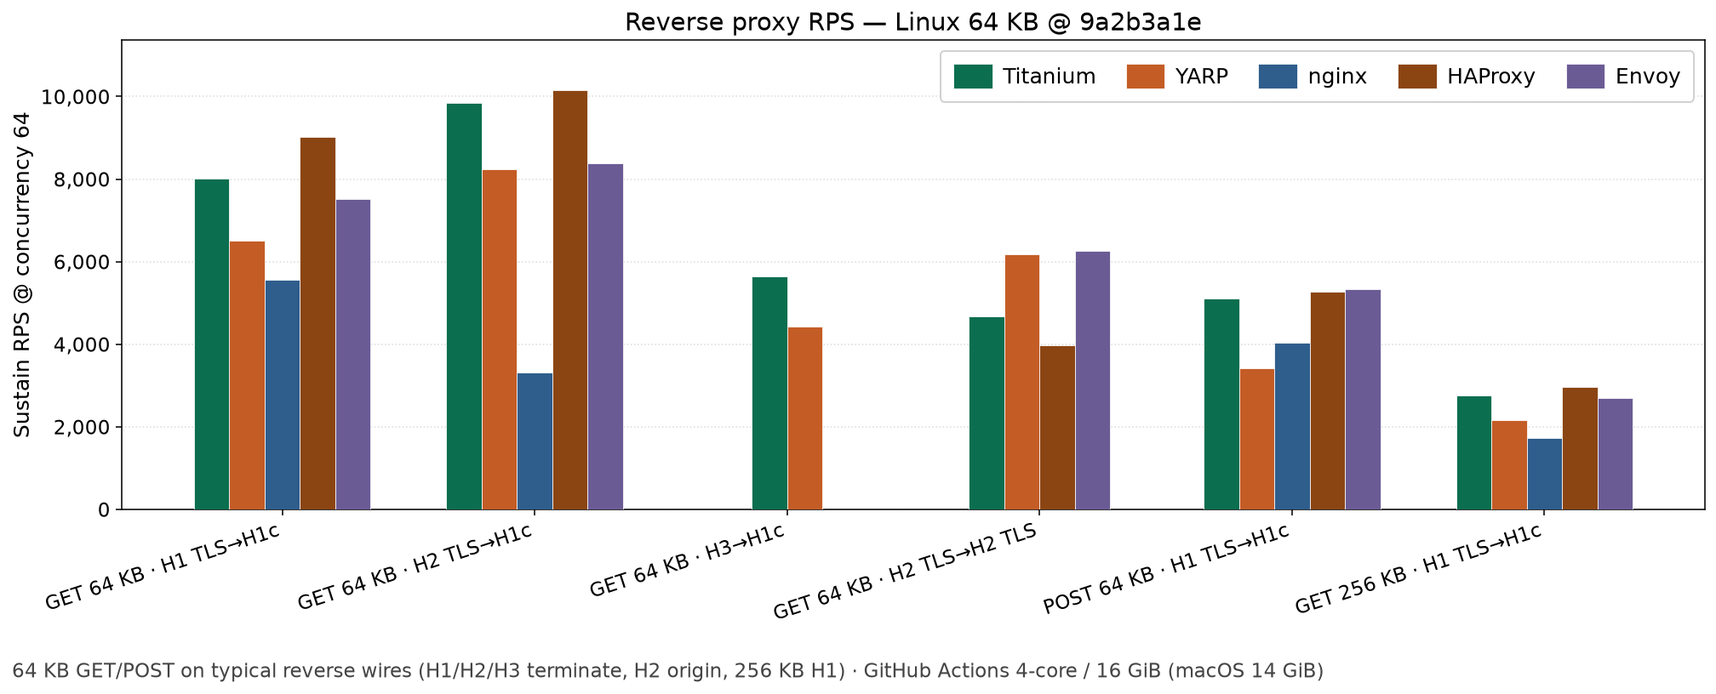
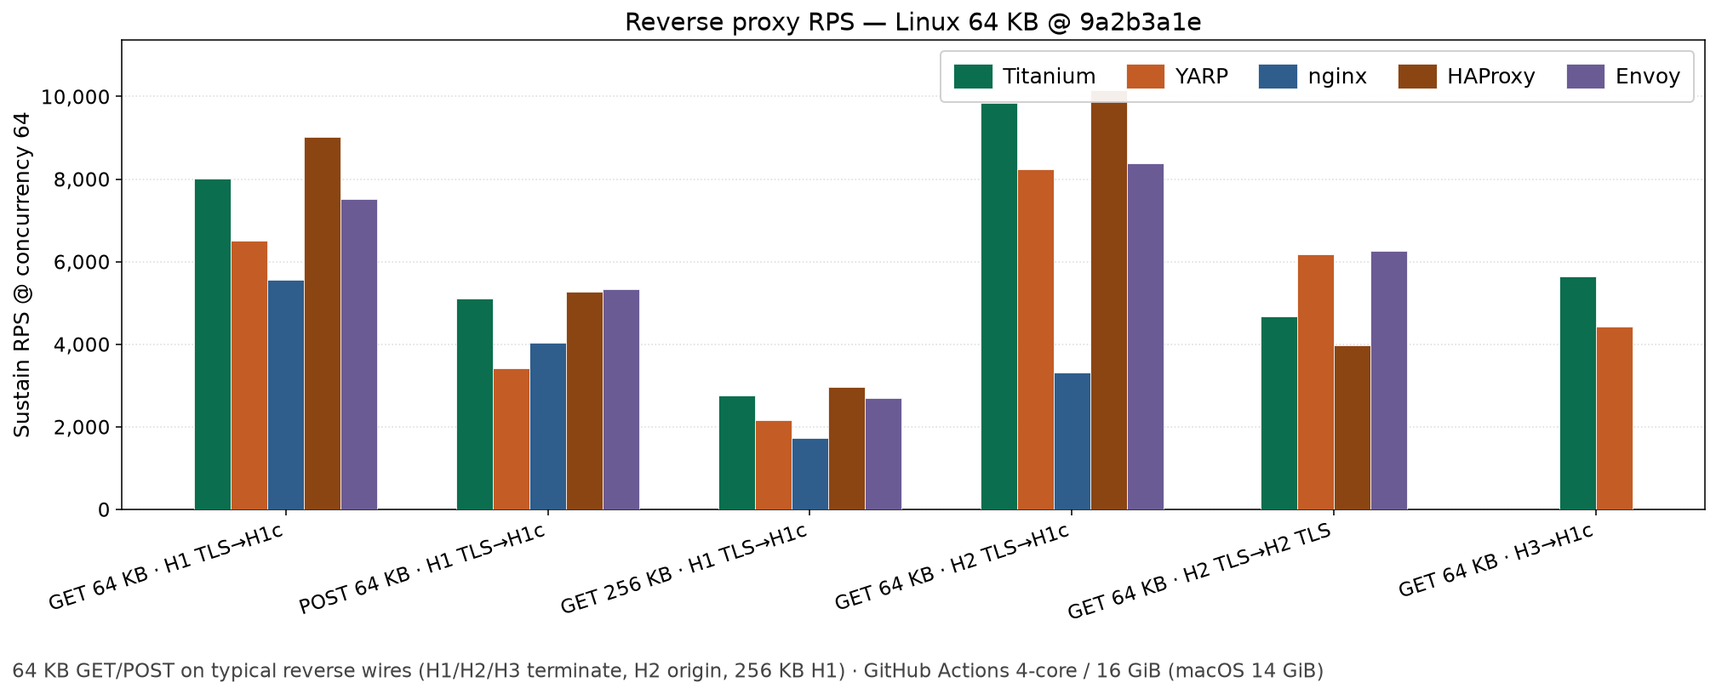
Mark HAProxy H3-origin impossible and close paste/chart gaps.
HAProxy 3.2 rejects QUIC backends; treat those cells as Not possible, harden
SupportsQuic against OPENSSL_COMPAT, paste Win nginx H3 and unary gRPC rows,
and reorder heavier practical charts H1→H2→H3.

diff --git a/tools/RpsLoadProbe/render-practical-charts.py b/tools/RpsLoadProbe/render-practical-charts.py
@@ -126,16 +126,17 @@ INDUSTRY_WORKLOADS: List[Tuple[str, Dict[str, Optional[str]]]] = [
     (
         "gRPC unary",
         {
-            "Titanium": "twp-reverse-http2-grpc-unary",
-            "YARP": "yarp-reverse-http2-grpc-unary",
-            "nginx": "nginx-reverse-http2-grpc-unary",
-            "HAProxy": "haproxy-reverse-http2-grpc-unary",
-            "Envoy": "envoy-reverse-http2-grpc-unary",
+            "Titanium": "twp-grpc-http2",
+            "YARP": "yarp-grpc-http2",
+            "nginx": "nginx-grpc-http2",
+            "HAProxy": "haproxy-grpc-http2",
+            "Envoy": "envoy-grpc-http2",
         },
     ),
 ]
 
 # Heavier practical chart: 64 KB GET/POST on typical reverse wires (+ 256 KB H1).
+# X-axis order: H1 family → H2 → H3 (client protocol).
 # label, twp, yarp, nginx, haproxy, envoy (None = product-impossible).
 PRACTICAL_HEAVIER_ARMS: List[Tuple[str, str, str, Optional[str], Optional[str], Optional[str]]] = [
     (
@@ -145,30 +146,6 @@ PRACTICAL_HEAVIER_ARMS: List[Tuple[str, str, str, Optional[str], Optional[str], 
         "nginx-reverse-http1-tls-body64k",
         "haproxy-reverse-http1-tls-body64k",
         "envoy-reverse-http1-tls-body64k",
-    ),
-    (
-        "GET 64 KB · H2 TLS→H1c",
-        "twp-reverse-http2-cleartext-body64k",
-        "yarp-reverse-http2-body64k",
-        "nginx-reverse-http2-body64k",
-        "haproxy-reverse-http2-body64k",
-        "envoy-reverse-http2-body64k",
-    ),
-    (
-        "GET 64 KB · H3→H1c",
-        "twp-reverse-http3-cleartext-body64k",
-        "yarp-reverse-http3-cleartext-body64k",
-        "nginx-reverse-http3-cleartext-body64k",
-        "haproxy-reverse-http3-cleartext-body64k",
-        "envoy-reverse-http3-cleartext-body64k",
-    ),
-    (
-        "GET 64 KB · H2 TLS→H2 TLS",
-        "twp-reverse-http2-to-https-body64k",
-        "yarp-reverse-http2-to-https-body64k",
-        None,
-        "haproxy-reverse-http2-to-https-body64k",
-        "envoy-reverse-http2-to-https-body64k",
     ),
     (
         "POST 64 KB · H1 TLS→H1c",
@@ -185,6 +162,30 @@ PRACTICAL_HEAVIER_ARMS: List[Tuple[str, str, str, Optional[str], Optional[str], 
         "nginx-reverse-http1-tls-body256k",
         "haproxy-reverse-http1-tls-body256k",
         "envoy-reverse-http1-tls-body256k",
+    ),
+    (
+        "GET 64 KB · H2 TLS→H1c",
+        "twp-reverse-http2-cleartext-body64k",
+        "yarp-reverse-http2-body64k",
+        "nginx-reverse-http2-body64k",
+        "haproxy-reverse-http2-body64k",
+        "envoy-reverse-http2-body64k",
+    ),
+    (
+        "GET 64 KB · H2 TLS→H2 TLS",
+        "twp-reverse-http2-to-https-body64k",
+        "yarp-reverse-http2-to-https-body64k",
+        None,
+        "haproxy-reverse-http2-to-https-body64k",
+        "envoy-reverse-http2-to-https-body64k",
+    ),
+    (
+        "GET 64 KB · H3→H1c",
+        "twp-reverse-http3-cleartext-body64k",
+        "yarp-reverse-http3-cleartext-body64k",
+        "nginx-reverse-http3-cleartext-body64k",
+        "haproxy-reverse-http3-cleartext-body64k",
+        "envoy-reverse-http3-cleartext-body64k",
     ),
 ]
 
@@ -222,11 +223,11 @@ WIKI_WIRE_CELLS: Dict[str, Tuple[str, str]] = {
 # Heavier chart wiki cells: (body_or_None_for_post, client, origin) → cluster index.
 WIKI_HEAVIER_CELLS: Dict[Tuple[Optional[str], str, str], int] = {
     ("64 KiB", "HTTP/1 · TLS", "HTTP/1 · plain"): 0,
-    ("64 KiB", "HTTP/2 · TLS", "HTTP/1 · plain"): 1,
-    ("64 KiB", "HTTP/3 · QUIC", "HTTP/1 · plain"): 2,
-    ("64 KiB", "HTTP/2 · TLS", "HTTP/2 · TLS"): 3,
-    (None, "HTTP/1 · TLS", "HTTP/1 · plain"): 4,  # POST table (no Body col)
-    ("256 KiB", "HTTP/1 · TLS", "HTTP/1 · plain"): 5,
+    (None, "HTTP/1 · TLS", "HTTP/1 · plain"): 1,  # POST table (no Body col)
+    ("256 KiB", "HTTP/1 · TLS", "HTTP/1 · plain"): 2,
+    ("64 KiB", "HTTP/2 · TLS", "HTTP/1 · plain"): 3,
+    ("64 KiB", "HTTP/2 · TLS", "HTTP/2 · TLS"): 4,
+    ("64 KiB", "HTTP/3 · QUIC", "HTTP/1 · plain"): 5,
 }
 
 HEADING_TO_OS = {
@@ -654,8 +655,8 @@ def arm_sustain_union(csv_paths: Sequence[Path], arm: Optional[str]) -> Optional
 
 
 def grpc_arm_union(csv_paths: Sequence[Path], prefix: str, fallback: Optional[str]) -> Optional[str]:
-    """Resolve a *-grpc-* arm; prefer <prefix>-reverse-http2-grpc-unary when present."""
-    preferred = fallback or f"{prefix}-reverse-http2-grpc-unary"
+    """Resolve a *-grpc-* arm; prefer <prefix>-grpc-http2 when present."""
+    preferred = fallback or f"{prefix}-grpc-http2"
     for path in csv_paths:
         arms = {r.get("arm") for r in csv.DictReader(path.open(newline="")) if r.get("arm")}
         if preferred in arms:

diff --git a/tools/RpsLoadProbe/RampOrchestrator.cs b/tools/RpsLoadProbe/RampOrchestrator.cs
@@ -948,8 +948,11 @@ internal static class RampOrchestrator
         bool haproxyQuicAvailable, bool envoyAvailable, bool envoyHttp3Available) =>
         wire.Product switch
         {
+            // HAProxy 3.2 USE_QUIC is frontend-only; QUIC backends are rejected at config check.
             PeerProduct.Nginx => nginxAvailable,
-            PeerProduct.Haproxy => haproxyAvailable && (!PeerWire.NeedsQuicBuild(wire) || haproxyQuicAvailable),
+            PeerProduct.Haproxy => haproxyAvailable
+                && wire.Origin != PeerOriginProto.H3
+                && (!PeerWire.NeedsQuicBuild(wire) || haproxyQuicAvailable),
             PeerProduct.Envoy => envoyAvailable && (!PeerWire.NeedsQuicBuild(wire) || envoyHttp3Available),
             _ => false
         };
@@ -1707,8 +1710,8 @@ internal static class RampOrchestrator
             haproxyAvailable, envoyAvailable, null,
             "haproxy-reverse-http1-plain-to-http2", "envoy-reverse-http1-plain-to-http2");
         InsertNativeRemainderAfterYarp(arms, ProbeMode.YarpReverseHttp1PlainToHttp3, nginxAvailable: false,
-            haproxyHttp3Available, envoyHttp3Available, null,
-            "haproxy-reverse-http1-plain-to-http3", "envoy-reverse-http1-plain-to-http3");
+            haproxyAvailable: false, envoyHttp3Available, null,
+            null, "envoy-reverse-http1-plain-to-http3");
         InsertNativeRemainderAfterYarp(arms, ProbeMode.YarpReverseHttp1ToH2c, nginxAvailable: false,
             haproxyAvailable, envoyAvailable, null,
             "haproxy-reverse-http1-to-h2c", "envoy-reverse-http1-to-h2c");
@@ -1716,8 +1719,8 @@ internal static class RampOrchestrator
             haproxyAvailable, envoyAvailable, null,
             "haproxy-reverse-http11-to-http2", "envoy-reverse-http11-to-http2");
         InsertNativeRemainderAfterYarp(arms, ProbeMode.YarpReverseHttp1ToHttp3, nginxAvailable: false,
-            haproxyHttp3Available, envoyHttp3Available, null,
-            "haproxy-reverse-http1-to-http3", "envoy-reverse-http1-to-http3");
+            haproxyAvailable: false, envoyHttp3Available, null,
+            null, "envoy-reverse-http1-to-http3");
         InsertNativeRemainderAfterYarp(arms, ProbeMode.YarpReverseH2cToH1, nginxAvailable,
             haproxyAvailable, envoyAvailable,
             "nginx-reverse-h2c-to-h1", "haproxy-reverse-h2c-to-h1", "envoy-reverse-h2c-to-h1");
@@ -1731,8 +1734,8 @@ internal static class RampOrchestrator
             haproxyAvailable, envoyAvailable, null,
             "haproxy-reverse-h2c", "envoy-reverse-h2c");
         InsertNativeRemainderAfterYarp(arms, ProbeMode.YarpReverseH2cToH3, nginxAvailable: false,
-            haproxyHttp3Available, envoyHttp3Available, null,
-            "haproxy-reverse-h2c-to-h3", "envoy-reverse-h2c-to-h3");
+            haproxyAvailable: false, envoyHttp3Available, null,
+            null, "envoy-reverse-h2c-to-h3");
         InsertNativeRemainderAfterYarp(arms, ProbeMode.YarpReverseHttp2ToH2c, nginxAvailable: false,
             haproxyAvailable, envoyAvailable, null,
             "haproxy-reverse-http2-to-h2c", "envoy-reverse-http2-to-h2c");
@@ -1740,17 +1743,18 @@ internal static class RampOrchestrator
             haproxyAvailable, envoyAvailable, null,
             "haproxy-reverse-http2-to-https", "envoy-reverse-http2-to-https");
         InsertNativeRemainderAfterYarp(arms, ProbeMode.YarpReverseHttp2ToHttp3, nginxAvailable: false,
-            haproxyHttp3Available, envoyHttp3Available, null,
-            "haproxy-reverse-http2-to-http3", "envoy-reverse-http2-to-http3");
+            haproxyAvailable: false, envoyHttp3Available, null,
+            null, "envoy-reverse-http2-to-http3");
         InsertNativeRemainderAfterYarp(arms, ProbeMode.YarpReverseHttp3ToH2c, nginxAvailable: false,
             haproxyHttp3Available, envoyHttp3Available, null,
             "haproxy-reverse-http3-to-h2c", "envoy-reverse-http3-to-h2c");
         InsertNativeRemainderAfterYarp(arms, ProbeMode.YarpReverseHttp3ToHttp2, nginxAvailable: false,
             haproxyHttp3Available, envoyHttp3Available, null,
             "haproxy-reverse-http3-to-http2", "envoy-reverse-http3-to-http2");
+        // HAProxy has no QUIC backend — H3↔H3 is Envoy-only among terminate peers.
         InsertNativeRemainderAfterYarp(arms, ProbeMode.YarpReverseHttp3ToHttp3, nginxAvailable: false,
-            haproxyHttp3Available, envoyHttp3Available, null,
-            "haproxy-reverse-http3-to-http3", "envoy-reverse-http3-to-http3");
+            haproxyAvailable: false, envoyHttp3Available, null,
+            null, "envoy-reverse-http3-to-http3");
 
         return arms;
     }

diff --git a/tools/RpsLoadProbe/product-arm-matrix.py b/tools/RpsLoadProbe/product-arm-matrix.py
@@ -43,21 +43,16 @@ IMPLEMENTED_REMAINDER: Dict[Tuple[str, str, str], str] = {
     # HAProxy / Envoy: every cell that is not one of the eight terminate-to-H1 arms.
     ("haproxy", H1C, H2C): "haproxy-reverse-http1-plain-to-h2c",
     ("haproxy", H1C, H2T): "haproxy-reverse-http1-plain-to-http2",
-    ("haproxy", H1C, H3): "haproxy-reverse-http1-plain-to-http3",
     ("haproxy", H1T, H2C): "haproxy-reverse-http1-to-h2c",
     ("haproxy", H1T, H2T): "haproxy-reverse-http11-to-http2",
-    ("haproxy", H1T, H3): "haproxy-reverse-http1-to-http3",
     ("haproxy", H2C, H1C): "haproxy-reverse-h2c-to-h1",
     ("haproxy", H2C, H1T): "haproxy-reverse-h2c-to-https",
     ("haproxy", H2C, H2C): "haproxy-reverse-h2c-to-h2c",
     ("haproxy", H2C, H2T): "haproxy-reverse-h2c",
-    ("haproxy", H2C, H3): "haproxy-reverse-h2c-to-h3",
     ("haproxy", H2T, H2C): "haproxy-reverse-http2-to-h2c",
     ("haproxy", H2T, H2T): "haproxy-reverse-http2-to-https",
-    ("haproxy", H2T, H3): "haproxy-reverse-http2-to-http3",
     ("haproxy", H3, H2C): "haproxy-reverse-http3-to-h2c",
     ("haproxy", H3, H2T): "haproxy-reverse-http3-to-http2",
-    ("haproxy", H3, H3): "haproxy-reverse-http3-to-http3",
     ("envoy", H1C, H2C): "envoy-reverse-http1-plain-to-h2c",
     ("envoy", H1C, H2T): "envoy-reverse-http1-plain-to-http2",
     ("envoy", H1C, H3): "envoy-reverse-http1-plain-to-http3",
@@ -97,7 +92,7 @@ ABSENT_HOW: Dict[Tuple[str, str], str] = {
     ("nginx", H2C): "mainline 1.25.1+ `http2 on` without ssl (prior-knowledge h2c) → existing H1 origin",
     ("haproxy", H2C): "`bind ... proto h2` (h2c) or existing QUIC/TLS frontend",
     ("haproxy", H2T): "`server ... ssl verify none alpn h2 proto h2`",
-    ("haproxy", H3): "`server ... quic4@127.0.0.1:<port> ssl verify none alpn h3` (3.2 USE_QUIC)",
+    ("haproxy", H3): "`server ... quic4@` is rejected on 3.2 — no QUIC backend (frontend USE_QUIC only)",
     ("envoy", H2C): "TCP listener codec HTTP2, no TLS; cluster `http2_protocol_options` without TLS",
     ("envoy", H2T): "cluster `explicit_http_config.http2_protocol_options` + UpstreamTlsContext",
     ("envoy", H3): "cluster QuicUpstreamTransport + `http3_protocol_options` (upstream H3 is alpha)",
@@ -138,9 +133,11 @@ def arm_name(product: str, client: str, origin: str) -> Optional[str]:
 def impossible_reason(product: str, client: str, origin: str) -> Optional[str]:
     if status(product, client, origin) != "impossible":
         return None
+    kind = _origin_kind(origin)
+    if product == "haproxy" and kind == "h3":
+        return IMPOSSIBLE_REASON["h3-up"]
     if product != "nginx":
         return "Not possible"
-    kind = _origin_kind(origin)
     if kind == "h3":
         return IMPOSSIBLE_REASON["h3-up"]
     if kind == "h2":

diff --git a/tools/RpsLoadProbe/HaproxyHost.cs b/tools/RpsLoadProbe/HaproxyHost.cs
@@ -144,6 +144,9 @@ internal sealed class HaproxyHost : IDisposable
             return null;
         if ((inbound == PeerInboundProto.H3 || origin == PeerOriginProto.H3) && !SupportsQuic(exe))
             return null;
+        // HAProxy 3.2: QUIC is frontend-only — backend quic4@ is rejected at config check.
+        if (origin == PeerOriginProto.H3)
+            return null;
 
         var needsCerts = inbound is PeerInboundProto.H1Tls or PeerInboundProto.H2Tls or PeerInboundProto.H3;
         var listenScheme = inbound is PeerInboundProto.H1c or PeerInboundProto.H2c ? "http" : "https";
@@ -512,11 +515,20 @@ backend be
     private static readonly Regex QuicConfigureFlag =
         new(@"\bUSE_QUIC\b", RegexOptions.Compiled | RegexOptions.CultureInvariant);
 
-    /// <summary>True when <c>haproxy -vv</c> lists <c>USE_QUIC</c> as a configure flag.</summary>
+    private static readonly Regex QuicOpensslCompatFlag =
+        new(@"\bUSE_QUIC_OPENSSL_COMPAT\b", RegexOptions.Compiled | RegexOptions.CultureInvariant);
+
+    /// <summary>
+    /// True when <c>haproxy -vv</c> lists a real QUIC stack (<c>USE_QUIC</c> without
+    /// <c>USE_QUIC_OPENSSL_COMPAT</c>). Compat builds reject <c>bind quic4@</c> unless
+    /// limited-quic is enabled; GHA installs QuicTLS instead.
+    /// </summary>
     internal static bool SupportsQuic(string exe)
     {
         var text = ReadHaproxyOutput(exe, "-vv");
-        return QuicConfigureFlag.IsMatch(text);
+        if (!QuicConfigureFlag.IsMatch(text))
+            return false;
+        return !QuicOpensslCompatFlag.IsMatch(text);
     }
 
     private static async Task<string> ExportLoopbackCombinedPemAsync(string dir)

diff --git a/tools/RpsLoadProbe/NginxHost.cs b/tools/RpsLoadProbe/NginxHost.cs
@@ -554,6 +554,9 @@ internal sealed class NginxHost : IDisposable
                         location / {
                             grpc_pass grpcs://127.0.0.1:{{originHttpsPort}};
                             grpc_ssl_verify off;
+                            grpc_ssl_server_name on;
+                            grpc_ssl_name localhost;
+                            grpc_set_header Host localhost;
                             grpc_read_timeout 60s;
                             grpc_send_timeout 60s;
                         }

diff --git a/wiki/Performance.md b/wiki/Performance.md
@@ -204,8 +204,8 @@ Median of **3 repeats** on `windows-latest` (4 vCPU / 16 GiB). Bare reverse 5×5
 | HTTP/2 · TLS | HTTP/2 · plain | 🥇 **107152**<br><sub>(75 MiB / 29.1% CPU)</sub> | 🥇 **107152**<br><sub>(75 MiB / 29.1% CPU)</sub> | *Not possible (no H2 upstream)* | *Not possible (no H2 upstream)* | *Not possible* | *Not possible* | *Not possible* | *Not possible* | **59098**<br><sub>(102 MiB / 52.7% CPU)</sub> | **59098**<br><sub>(102 MiB / 52.7% CPU)</sub> |
 | HTTP/2 · TLS | HTTP/2 · TLS | 🥇 **84487**<br><sub>(73 MiB / 28.8% CPU)</sub> | 🥇 **84487**<br><sub>(73 MiB / 28.8% CPU)</sub> | *Not possible (no H2 upstream)* | *Not possible (no H2 upstream)* | *Not possible* | *Not possible* | *Not possible* | *Not possible* | **49546**<br><sub>(98 MiB / 49% CPU)</sub> | **49546**<br><sub>(98 MiB / 49% CPU)</sub> |
 | HTTP/2 · TLS | HTTP/3 · QUIC | 🥇 **30034**<br><sub>(127 MiB / 53.4% CPU)</sub> | 🥇 **30034**<br><sub>(127 MiB / 53.4% CPU)</sub> | *Not possible (no H3 upstream)* | *Not possible (no H3 upstream)* | *Not possible* | *Not possible* | *Not possible* | *Not possible* | **25937**<br><sub>(123 MiB / 51.5% CPU)</sub> | **25937**<br><sub>(123 MiB / 51.5% CPU)</sub> |
-| HTTP/3 · QUIC | HTTP/1 · plain | 🥇 **19348**<br><sub>(107 MiB / 44% CPU)</sub> | 🥇 **19348**<br><sub>(107 MiB / 44% CPU)</sub> | *Not measured* | *Not measured* | *Not possible* | *Not possible* | *Not possible* | *Not possible* | **18041**<br><sub>(143 MiB / 50.9% CPU)</sub> | **18041**<br><sub>(143 MiB / 50.9% CPU)</sub> |
-| HTTP/3 · QUIC | HTTP/1 · TLS | 🥇 **13646**<br><sub>(113 MiB / 46.7% CPU)</sub> | 🥇 **13646**<br><sub>(113 MiB / 46.7% CPU)</sub> | *Not measured* | *Not measured* | *Not possible* | *Not possible* | *Not possible* | *Not possible* | **13437**<br><sub>(145 MiB / 52.4% CPU)</sub> | **13437**<br><sub>(145 MiB / 52.4% CPU)</sub> |
+| HTTP/3 · QUIC | HTTP/1 · plain | 🥇 **19348**<br><sub>(107 MiB / 44% CPU)</sub> | 🥇 **19348**<br><sub>(107 MiB / 44% CPU)</sub> | *Not possible (no QUIC)* | *Not possible (no QUIC)* | *Not possible* | *Not possible* | *Not possible* | *Not possible* | **18041**<br><sub>(143 MiB / 50.9% CPU)</sub> | **18041**<br><sub>(143 MiB / 50.9% CPU)</sub> |
+| HTTP/3 · QUIC | HTTP/1 · TLS | 🥇 **13646**<br><sub>(113 MiB / 46.7% CPU)</sub> | 🥇 **13646**<br><sub>(113 MiB / 46.7% CPU)</sub> | *Not possible (no QUIC)* | *Not possible (no QUIC)* | *Not possible* | *Not possible* | *Not possible* | *Not possible* | **13437**<br><sub>(145 MiB / 52.4% CPU)</sub> | **13437**<br><sub>(145 MiB / 52.4% CPU)</sub> |
 | HTTP/3 · QUIC | HTTP/2 · plain | 🥇 **34128**<br><sub>(136 MiB / 47.6% CPU)</sub> | 🥇 **34128**<br><sub>(136 MiB / 47.6% CPU)</sub> | *Not possible (no H2 upstream)* | *Not possible (no H2 upstream)* | *Not possible* | *Not possible* | *Not possible* | *Not possible* | **25450**<br><sub>(166 MiB / 50.1% CPU)</sub> | **25450**<br><sub>(166 MiB / 50.1% CPU)</sub> |
 | HTTP/3 · QUIC | HTTP/2 · TLS | 🥇 **33850**<br><sub>(138 MiB / 48% CPU)</sub> | 🥇 **33850**<br><sub>(138 MiB / 48% CPU)</sub> | *Not possible (no H2 upstream)* | *Not possible (no H2 upstream)* | *Not possible* | *Not possible* | *Not possible* | *Not possible* | **26828**<br><sub>(168 MiB / 48.5% CPU)</sub> | **26828**<br><sub>(168 MiB / 48.5% CPU)</sub> |
 | HTTP/3 · QUIC | HTTP/3 · QUIC | 🥇 **23150**<br><sub>(121 MiB / 41.8% CPU)</sub> | 🥇 **23150**<br><sub>(121 MiB / 41.8% CPU)</sub> | *Not possible (no H3 upstream)* | *Not possible (no H3 upstream)* | *Not possible* | *Not possible* | *Not possible* | *Not possible* | **12064**<br><sub>(167 MiB / 53.1% CPU)</sub> | **12064**<br><sub>(167 MiB / 53.1% CPU)</sub> |
@@ -258,27 +258,27 @@ Median of **3 repeats** on `ubuntu-latest` (4 vCPU / 16 GiB). Bare reverse 5×5 
 | HTTP/1 · plain | HTTP/1 · TLS | **28506**<br><sub>(107 MiB / 49.3% CPU)</sub> | **28506**<br><sub>(107 MiB / 49.3% CPU)</sub> | 🥇 **34687**<br><sub>(93 MiB / 40.7% CPU)</sub> | 🥇 **34687**<br><sub>(93 MiB / 40.7% CPU)</sub> | **32839**<br><sub>(71 MiB / 43% CPU)</sub> | **32839**<br><sub>(71 MiB / 43% CPU)</sub> | **22383**<br><sub>(117 MiB / 56.4% CPU)</sub> | **22383**<br><sub>(117 MiB / 56.4% CPU)</sub> | **25710**<br><sub>(138 MiB / 49.6% CPU)</sub> | **25710**<br><sub>(138 MiB / 49.6% CPU)</sub> |
 | HTTP/1 · plain | HTTP/2 · plain | 🥇 **45673**<br><sub>(129 MiB / 52.7% CPU)</sub> | 🥇 **45673**<br><sub>(129 MiB / 52.7% CPU)</sub> | *Not possible (no H2 upstream)* | *Not possible (no H2 upstream)* | **26830**<br><sub>(68 MiB / 42.8% CPU)</sub> | **26830**<br><sub>(68 MiB / 42.8% CPU)</sub> | **27447**<br><sub>(116 MiB / 61% CPU)</sub> | **27447**<br><sub>(116 MiB / 61% CPU)</sub> | **40965**<br><sub>(125 MiB / 49.4% CPU)</sub> | **40965**<br><sub>(125 MiB / 49.4% CPU)</sub> |
 | HTTP/1 · plain | HTTP/2 · TLS | 🥇 **37934**<br><sub>(147 MiB / 49.1% CPU)</sub> | 🥇 **37934**<br><sub>(147 MiB / 49.1% CPU)</sub> | *Not possible (no H2 upstream)* | *Not possible (no H2 upstream)* | **35699**<br><sub>(68 MiB / 43% CPU)</sub> | **35699**<br><sub>(68 MiB / 43% CPU)</sub> | **19949**<br><sub>(117 MiB / 61.9% CPU)</sub> | **19949**<br><sub>(117 MiB / 61.9% CPU)</sub> | **35520**<br><sub>(132 MiB / 47.3% CPU)</sub> | **35520**<br><sub>(132 MiB / 47.3% CPU)</sub> |
-| HTTP/1 · plain | HTTP/3 · QUIC | 🥇 **26151**<br><sub>(141 MiB / 53.8% CPU)</sub> | 🥇 **26151**<br><sub>(141 MiB / 53.8% CPU)</sub> | *Not possible (no H3 upstream)* | *Not possible (no H3 upstream)* | *Not measured* | *Not measured* | **12126**<br><sub>(120 MiB / 56.3% CPU)</sub> | **12126**<br><sub>(120 MiB / 56.3% CPU)</sub> | **24086**<br><sub>(155 MiB / 48.3% CPU)</sub> | **24086**<br><sub>(155 MiB / 48.3% CPU)</sub> |
+| HTTP/1 · plain | HTTP/3 · QUIC | 🥇 **26151**<br><sub>(141 MiB / 53.8% CPU)</sub> | 🥇 **26151**<br><sub>(141 MiB / 53.8% CPU)</sub> | *Not possible (no H3 upstream)* | *Not possible (no H3 upstream)* | *Not possible (no H3 upstream)* | *Not possible (no H3 upstream)* | **12126**<br><sub>(120 MiB / 56.3% CPU)</sub> | **12126**<br><sub>(120 MiB / 56.3% CPU)</sub> | **24086**<br><sub>(155 MiB / 48.3% CPU)</sub> | **24086**<br><sub>(155 MiB / 48.3% CPU)</sub> |
 | HTTP/1 · TLS | HTTP/1 · plain | **27742**<br><sub>(111 MiB / 48.9% CPU)</sub> | **27742**<br><sub>(111 MiB / 48.9% CPU)</sub> | **33232**<br><sub>(100 MiB / 41.5% CPU)</sub> | **33232**<br><sub>(100 MiB / 41.5% CPU)</sub> | 🥇 **33283**<br><sub>(85 MiB / 43.6% CPU)</sub> | 🥇 **33283**<br><sub>(85 MiB / 43.6% CPU)</sub> | **21660**<br><sub>(127 MiB / 56.4% CPU)</sub> | **21660**<br><sub>(127 MiB / 56.4% CPU)</sub> | **24735**<br><sub>(142 MiB / 49.4% CPU)</sub> | **24735**<br><sub>(142 MiB / 49.4% CPU)</sub> |
 | HTTP/1 · TLS | HTTP/1 · TLS | **23878**<br><sub>(111 MiB / 48.2% CPU)</sub> | **23878**<br><sub>(111 MiB / 48.2% CPU)</sub> | 🥇 **28042**<br><sub>(103 MiB / 41.6% CPU)</sub> | 🥇 **28042**<br><sub>(103 MiB / 41.6% CPU)</sub> | **27394**<br><sub>(86 MiB / 43.8% CPU)</sub> | **27394**<br><sub>(86 MiB / 43.8% CPU)</sub> | **19309**<br><sub>(128 MiB / 55% CPU)</sub> | **19309**<br><sub>(128 MiB / 55% CPU)</sub> | **21716**<br><sub>(142 MiB / 49.4% CPU)</sub> | **21716**<br><sub>(142 MiB / 49.4% CPU)</sub> |
 | HTTP/1 · TLS | HTTP/2 · plain | 🥇 **34010**<br><sub>(140 MiB / 51.4% CPU)</sub> | 🥇 **34010**<br><sub>(140 MiB / 51.4% CPU)</sub> | *Not possible (no H2 upstream)* | *Not possible (no H2 upstream)* | **21760**<br><sub>(83 MiB / 42.9% CPU)</sub> | **21760**<br><sub>(83 MiB / 42.9% CPU)</sub> | **18208**<br><sub>(127 MiB / 58.6% CPU)</sub> | **18208**<br><sub>(127 MiB / 58.6% CPU)</sub> | **30979**<br><sub>(141 MiB / 49.2% CPU)</sub> | **30979**<br><sub>(141 MiB / 49.2% CPU)</sub> |
 | HTTP/1 · TLS | HTTP/2 · TLS | 🥇 **29656**<br><sub>(157 MiB / 48.6% CPU)</sub> | 🥇 **29656**<br><sub>(157 MiB / 48.6% CPU)</sub> | *Not possible (no H2 upstream)* | *Not possible (no H2 upstream)* | **29078**<br><sub>(83 MiB / 44% CPU)</sub> | **29078**<br><sub>(83 MiB / 44% CPU)</sub> | **21903**<br><sub>(126 MiB / 56.9% CPU)</sub> | **21903**<br><sub>(126 MiB / 56.9% CPU)</sub> | **27210**<br><sub>(146 MiB / 48.3% CPU)</sub> | **27210**<br><sub>(146 MiB / 48.3% CPU)</sub> |
-| HTTP/1 · TLS | HTTP/3 · QUIC | 🥇 **22269**<br><sub>(152 MiB / 52.9% CPU)</sub> | 🥇 **22269**<br><sub>(152 MiB / 52.9% CPU)</sub> | *Not possible (no H3 upstream)* | *Not possible (no H3 upstream)* | *Not measured* | *Not measured* | **11093**<br><sub>(130 MiB / 55.9% CPU)</sub> | **11093**<br><sub>(130 MiB / 55.9% CPU)</sub> | **19851**<br><sub>(166 MiB / 49.4% CPU)</sub> | **19851**<br><sub>(166 MiB / 49.4% CPU)</sub> |
+| HTTP/1 · TLS | HTTP/3 · QUIC | 🥇 **22269**<br><sub>(152 MiB / 52.9% CPU)</sub> | 🥇 **22269**<br><sub>(152 MiB / 52.9% CPU)</sub> | *Not possible (no H3 upstream)* | *Not possible (no H3 upstream)* | *Not possible (no H3 upstream)* | *Not possible (no H3 upstream)* | **11093**<br><sub>(130 MiB / 55.9% CPU)</sub> | **11093**<br><sub>(130 MiB / 55.9% CPU)</sub> | **19851**<br><sub>(166 MiB / 49.4% CPU)</sub> | **19851**<br><sub>(166 MiB / 49.4% CPU)</sub> |
 | HTTP/2 · plain | HTTP/1 · plain | 🥇 **41263**<br><sub>(126 MiB / 53.1% CPU)</sub> | 🥇 **41263**<br><sub>(126 MiB / 53.1% CPU)</sub> | **18170**<br><sub>(79 MiB / 19.6% CPU)</sub> | **18170**<br><sub>(79 MiB / 19.6% CPU)</sub> | **27652**<br><sub>(69 MiB / 24.4% CPU)</sub> | **27652**<br><sub>(69 MiB / 24.4% CPU)</sub> | **17979**<br><sub>(118 MiB / 23% CPU)</sub> | **17979**<br><sub>(118 MiB / 23% CPU)</sub> | **39219**<br><sub>(115 MiB / 48.3% CPU)</sub> | **39219**<br><sub>(115 MiB / 48.3% CPU)</sub> |
 | HTTP/2 · plain | HTTP/1 · TLS | 🥇 **32750**<br><sub>(131 MiB / 51% CPU)</sub> | 🥇 **32750**<br><sub>(131 MiB / 51% CPU)</sub> | **15078**<br><sub>(100 MiB / 19.2% CPU)</sub> | **15078**<br><sub>(100 MiB / 19.2% CPU)</sub> | **22285**<br><sub>(71 MiB / 24.5% CPU)</sub> | **22285**<br><sub>(71 MiB / 24.5% CPU)</sub> | **16529**<br><sub>(119 MiB / 23.1% CPU)</sub> | **16529**<br><sub>(119 MiB / 23.1% CPU)</sub> | **31159**<br><sub>(125 MiB / 48.4% CPU)</sub> | **31159**<br><sub>(125 MiB / 48.4% CPU)</sub> |
 | HTTP/2 · plain | HTTP/2 · plain | 🥇 **97239**<br><sub>(90 MiB / 38% CPU)</sub> | 🥇 **97239**<br><sub>(90 MiB / 38% CPU)</sub> | *Not possible (no H2 upstream)* | *Not possible (no H2 upstream)* | **30261**<br><sub>(69 MiB / 24.3% CPU)</sub> | **30261**<br><sub>(69 MiB / 24.3% CPU)</sub> | **24868**<br><sub>(116 MiB / 21.8% CPU)</sub> | **24868**<br><sub>(116 MiB / 21.8% CPU)</sub> | **55752**<br><sub>(122 MiB / 47.1% CPU)</sub> | **55752**<br><sub>(122 MiB / 47.1% CPU)</sub> |
 | HTTP/2 · plain | HTTP/2 · TLS | 🥇 **67702**<br><sub>(93 MiB / 38.2% CPU)</sub> | 🥇 **67702**<br><sub>(93 MiB / 38.2% CPU)</sub> | *Not possible (no H2 upstream)* | *Not possible (no H2 upstream)* | **23815**<br><sub>(68 MiB / 24.4% CPU)</sub> | **23815**<br><sub>(68 MiB / 24.4% CPU)</sub> | **16231**<br><sub>(118 MiB / 21.5% CPU)</sub> | **16231**<br><sub>(118 MiB / 21.5% CPU)</sub> | **44692**<br><sub>(129 MiB / 45.3% CPU)</sub> | **44692**<br><sub>(129 MiB / 45.3% CPU)</sub> |
-| HTTP/2 · plain | HTTP/3 · QUIC | 🥇 **30188**<br><sub>(150 MiB / 51.4% CPU)</sub> | 🥇 **30188**<br><sub>(150 MiB / 51.4% CPU)</sub> | *Not possible (no H3 upstream)* | *Not possible (no H3 upstream)* | *Not measured* | *Not measured* | **5340**<br><sub>(121 MiB / 24.8% CPU)</sub> | **5340**<br><sub>(121 MiB / 24.8% CPU)</sub> | **28445**<br><sub>(156 MiB / 45.5% CPU)</sub> | **28445**<br><sub>(156 MiB / 45.5% CPU)</sub> |
+| HTTP/2 · plain | HTTP/3 · QUIC | 🥇 **30188**<br><sub>(150 MiB / 51.4% CPU)</sub> | 🥇 **30188**<br><sub>(150 MiB / 51.4% CPU)</sub> | *Not possible (no H3 upstream)* | *Not possible (no H3 upstream)* | *Not possible (no H3 upstream)* | *Not possible (no H3 upstream)* | **5340**<br><sub>(121 MiB / 24.8% CPU)</sub> | **5340**<br><sub>(121 MiB / 24.8% CPU)</sub> | **28445**<br><sub>(156 MiB / 45.5% CPU)</sub> | **28445**<br><sub>(156 MiB / 45.5% CPU)</sub> |
 | HTTP/2 · TLS | HTTP/1 · plain | 🥇 **38662**<br><sub>(128 MiB / 52.3% CPU)</sub> | 🥇 **38662**<br><sub>(128 MiB / 52.3% CPU)</sub> | **17745**<br><sub>(100 MiB / 18.8% CPU)</sub> | **17745**<br><sub>(100 MiB / 18.8% CPU)</sub> | **24393**<br><sub>(81 MiB / 24.3% CPU)</sub> | **24393**<br><sub>(81 MiB / 24.3% CPU)</sub> | **17919**<br><sub>(128 MiB / 22.5% CPU)</sub> | **17919**<br><sub>(128 MiB / 22.5% CPU)</sub> | **34084**<br><sub>(122 MiB / 48.1% CPU)</sub> | **34084**<br><sub>(122 MiB / 48.1% CPU)</sub> |
 | HTTP/2 · TLS | HTTP/1 · TLS | 🥇 **30318**<br><sub>(119 MiB / 49.8% CPU)</sub> | 🥇 **30318**<br><sub>(119 MiB / 49.8% CPU)</sub> | **15083**<br><sub>(110 MiB / 19.6% CPU)</sub> | **15083**<br><sub>(110 MiB / 19.6% CPU)</sub> | **20646**<br><sub>(85 MiB / 24.4% CPU)</sub> | **20646**<br><sub>(85 MiB / 24.4% CPU)</sub> | **16394**<br><sub>(128 MiB / 22.2% CPU)</sub> | **16394**<br><sub>(128 MiB / 22.2% CPU)</sub> | **27788**<br><sub>(131 MiB / 48.5% CPU)</sub> | **27788**<br><sub>(131 MiB / 48.5% CPU)</sub> |
 | HTTP/2 · TLS | HTTP/2 · plain | 🥇 **85544**<br><sub>(102 MiB / 38% CPU)</sub> | 🥇 **85544**<br><sub>(102 MiB / 38% CPU)</sub> | *Not possible (no H2 upstream)* | *Not possible (no H2 upstream)* | **53648**<br><sub>(85 MiB / 24.2% CPU)</sub> | **53648**<br><sub>(85 MiB / 24.2% CPU)</sub> | **24277**<br><sub>(126 MiB / 21.5% CPU)</sub> | **24277**<br><sub>(126 MiB / 21.5% CPU)</sub> | **44751**<br><sub>(125 MiB / 46.4% CPU)</sub> | **44751**<br><sub>(125 MiB / 46.4% CPU)</sub> |
 | HTTP/2 · TLS | HTTP/2 · TLS | 🥇 **63379**<br><sub>(99 MiB / 36% CPU)</sub> | 🥇 **63379**<br><sub>(99 MiB / 36% CPU)</sub> | *Not possible (no H2 upstream)* | *Not possible (no H2 upstream)* | **22388**<br><sub>(84 MiB / 24.4% CPU)</sub> | **22388**<br><sub>(84 MiB / 24.4% CPU)</sub> | **21510**<br><sub>(125 MiB / 20.6% CPU)</sub> | **21510**<br><sub>(125 MiB / 20.6% CPU)</sub> | **38643**<br><sub>(128 MiB / 45.3% CPU)</sub> | **38643**<br><sub>(128 MiB / 45.3% CPU)</sub> |
-| HTTP/2 · TLS | HTTP/3 · QUIC | 🥇 **28423**<br><sub>(151 MiB / 50.5% CPU)</sub> | 🥇 **28423**<br><sub>(151 MiB / 50.5% CPU)</sub> | *Not possible (no H3 upstream)* | *Not possible (no H3 upstream)* | *Not measured* | *Not measured* | **5476**<br><sub>(129 MiB / 24.6% CPU)</sub> | **5476**<br><sub>(129 MiB / 24.6% CPU)</sub> | **25085**<br><sub>(163 MiB / 45.8% CPU)</sub> | **25085**<br><sub>(163 MiB / 45.8% CPU)</sub> |
+| HTTP/2 · TLS | HTTP/3 · QUIC | 🥇 **28423**<br><sub>(151 MiB / 50.5% CPU)</sub> | 🥇 **28423**<br><sub>(151 MiB / 50.5% CPU)</sub> | *Not possible (no H3 upstream)* | *Not possible (no H3 upstream)* | *Not possible (no H3 upstream)* | *Not possible (no H3 upstream)* | **5476**<br><sub>(129 MiB / 24.6% CPU)</sub> | **5476**<br><sub>(129 MiB / 24.6% CPU)</sub> | **25085**<br><sub>(163 MiB / 45.8% CPU)</sub> | **25085**<br><sub>(163 MiB / 45.8% CPU)</sub> |
 | HTTP/3 · QUIC | HTTP/1 · plain | **23715**<br><sub>(149 MiB / 52.2% CPU)</sub> | **23715**<br><sub>(149 MiB / 52.2% CPU)</sub> | **0**<br><sub>(107 MiB / 21.6% CPU)</sub> | **19206**<br><sub>(107 MiB / 21.6% CPU)</sub> | 🥇 **30835**<br><sub>(86 MiB / 25.2% CPU)</sub> | 🥇 **30835**<br><sub>(86 MiB / 25.2% CPU)</sub> | **3**<br><sub>(130 MiB / 0.1% CPU)</sub> | **3**<br><sub>(130 MiB / 0.1% CPU)</sub> | **21546**<br><sub>(186 MiB / 49% CPU)</sub> | **21546**<br><sub>(186 MiB / 49% CPU)</sub> |
 | HTTP/3 · QUIC | HTTP/1 · TLS | 🥇 **19505**<br><sub>(160 MiB / 49.3% CPU)</sub> | 🥇 **19505**<br><sub>(160 MiB / 49.3% CPU)</sub> | **0**<br><sub>(117 MiB / 22.7% CPU)</sub> | **14850**<br><sub>(117 MiB / 22.7% CPU)</sub> | *Not measured* | *Not measured* | *Not measured* | *Not measured* | **18423**<br><sub>(197 MiB / 49.9% CPU)</sub> | **18423**<br><sub>(197 MiB / 49.9% CPU)</sub> |
 | HTTP/3 · QUIC | HTTP/2 · plain | 🥇 **31386**<br><sub>(160 MiB / 56.2% CPU)</sub> | 🥇 **31386**<br><sub>(160 MiB / 56.2% CPU)</sub> | *Not possible (no H2 upstream)* | *Not possible (no H2 upstream)* | **29864**<br><sub>(86 MiB / 25.4% CPU)</sub> | **29864**<br><sub>(86 MiB / 25.4% CPU)</sub> | *Not measured* | *Not measured* | **26924**<br><sub>(197 MiB / 48% CPU)</sub> | **26924**<br><sub>(197 MiB / 48% CPU)</sub> |
 | HTTP/3 · QUIC | HTTP/2 · TLS | 🥇 **27669**<br><sub>(154 MiB / 52.3% CPU)</sub> | 🥇 **27669**<br><sub>(154 MiB / 52.3% CPU)</sub> | *Not possible (no H2 upstream)* | *Not possible (no H2 upstream)* | *Not measured* | *Not measured* | *Not measured* | *Not measured* | **24488**<br><sub>(199 MiB / 47.6% CPU)</sub> | **24488**<br><sub>(199 MiB / 47.6% CPU)</sub> |
-| HTTP/3 · QUIC | HTTP/3 · QUIC | 🥇 **21858**<br><sub>(164 MiB / 47.9% CPU)</sub> | 🥇 **21858**<br><sub>(164 MiB / 47.9% CPU)</sub> | *Not possible (no H3 upstream)* | *Not possible (no H3 upstream)* | *Not measured* | *Not measured* | *Not measured* | *Not measured* | **17840**<br><sub>(209 MiB / 47% CPU)</sub> | **17840**<br><sub>(209 MiB / 47% CPU)</sub> |
+| HTTP/3 · QUIC | HTTP/3 · QUIC | 🥇 **21858**<br><sub>(164 MiB / 47.9% CPU)</sub> | 🥇 **21858**<br><sub>(164 MiB / 47.9% CPU)</sub> | *Not possible (no H3 upstream)* | *Not possible (no H3 upstream)* | *Not possible (no H3 upstream)* | *Not possible (no H3 upstream)* | *Not measured* | *Not measured* | **17840**<br><sub>(209 MiB / 47% CPU)</sub> | **17840**<br><sub>(209 MiB / 47% CPU)</sub> |
 
 ### MITM (TWP only)
 
@@ -328,27 +328,27 @@ Median of **3 repeats** on `macos-15-intel` (4-core / 14 GB). Bare reverse 5×5 
 | HTTP/1 · plain | HTTP/1 · TLS | 🥇 **11064**<br><sub>(93 MiB / 36.5% CPU)</sub> | 🥇 **11064**<br><sub>(93 MiB / 36.5% CPU)</sub> | **5152**<br><sub>(73 MiB / 17.4% CPU)</sub> | **5152**<br><sub>(73 MiB / 17.4% CPU)</sub> | **7159**<br><sub>(53 MiB / 25.9% CPU)</sub> | **7159**<br><sub>(53 MiB / 25.9% CPU)</sub> | **0**<br><sub>(75 MiB / 21% CPU)</sub> | **2011**<br><sub>(75 MiB / 21% CPU)</sub> | **9146**<br><sub>(129 MiB / 36.8% CPU)</sub> | **9146**<br><sub>(129 MiB / 36.8% CPU)</sub> |
 | HTTP/1 · plain | HTTP/2 · plain | 🥇 **19185**<br><sub>(88 MiB / 33.8% CPU)</sub> | 🥇 **19185**<br><sub>(88 MiB / 33.8% CPU)</sub> | *Not possible (no H2 upstream)* | *Not possible (no H2 upstream)* | **11853**<br><sub>(50 MiB / 25.6% CPU)</sub> | **11853**<br><sub>(50 MiB / 25.6% CPU)</sub> | **6000**<br><sub>(73 MiB / 36.6% CPU)</sub> | **6000**<br><sub>(73 MiB / 36.6% CPU)</sub> | **18729**<br><sub>(111 MiB / 34% CPU)</sub> | **18729**<br><sub>(111 MiB / 34% CPU)</sub> |
 | HTTP/1 · plain | HTTP/2 · TLS | **9927**<br><sub>(129 MiB / 32.9% CPU)</sub> | **9927**<br><sub>(129 MiB / 32.9% CPU)</sub> | *Not possible (no H2 upstream)* | *Not possible (no H2 upstream)* | **8770**<br><sub>(51 MiB / 26.5% CPU)</sub> | **8770**<br><sub>(51 MiB / 26.5% CPU)</sub> | **5948**<br><sub>(73 MiB / 34.9% CPU)</sub> | **5948**<br><sub>(73 MiB / 34.9% CPU)</sub> | 🥇 **13674**<br><sub>(116 MiB / 32.9% CPU)</sub> | 🥇 **13674**<br><sub>(116 MiB / 32.9% CPU)</sub> |
-| HTTP/1 · plain | HTTP/3 · QUIC | **3662**<br><sub>(90 MiB / 45.3% CPU)</sub> | **3662**<br><sub>(90 MiB / 45.3% CPU)</sub> | *Not possible (no H3 upstream)* | *Not possible (no H3 upstream)* | *Not measured* | *Not measured* | **3393**<br><sub>(75 MiB / 38.2% CPU)</sub> | **2631**<br><sub>(75 MiB / 38.2% CPU)</sub> | 🥇 **5774**<br><sub>(116 MiB / 33.4% CPU)</sub> | 🥇 **5774**<br><sub>(116 MiB / 33.4% CPU)</sub> |
+| HTTP/1 · plain | HTTP/3 · QUIC | **3662**<br><sub>(90 MiB / 45.3% CPU)</sub> | **3662**<br><sub>(90 MiB / 45.3% CPU)</sub> | *Not possible (no H3 upstream)* | *Not possible (no H3 upstream)* | *Not possible (no H3 upstream)* | *Not possible (no H3 upstream)* | **3393**<br><sub>(75 MiB / 38.2% CPU)</sub> | **2631**<br><sub>(75 MiB / 38.2% CPU)</sub> | 🥇 **5774**<br><sub>(116 MiB / 33.4% CPU)</sub> | 🥇 **5774**<br><sub>(116 MiB / 33.4% CPU)</sub> |
 | HTTP/1 · TLS | HTTP/1 · plain | 🥇 **14162**<br><sub>(94 MiB / 31.5% CPU)</sub> | 🥇 **14162**<br><sub>(94 MiB / 31.5% CPU)</sub> | **8184**<br><sub>(74 MiB / 18.3% CPU)</sub> | **8184**<br><sub>(74 MiB / 18.3% CPU)</sub> | **9938**<br><sub>(64 MiB / 25.6% CPU)</sub> | **9938**<br><sub>(64 MiB / 25.6% CPU)</sub> | **4084**<br><sub>(79 MiB / 37.4% CPU)</sub> | **4328**<br><sub>(79 MiB / 37.4% CPU)</sub> | **7647**<br><sub>(115 MiB / 32.3% CPU)</sub> | **7647**<br><sub>(115 MiB / 32.3% CPU)</sub> |
 | HTTP/1 · TLS | HTTP/1 · TLS | **6128**<br><sub>(97 MiB / 31.7% CPU)</sub> | **6128**<br><sub>(97 MiB / 31.7% CPU)</sub> | **4903**<br><sub>(81 MiB / 15.5% CPU)</sub> | **4903**<br><sub>(81 MiB / 15.5% CPU)</sub> | 🥇 **9241**<br><sub>(67 MiB / 28% CPU)</sub> | 🥇 **9241**<br><sub>(67 MiB / 28% CPU)</sub> | **3594**<br><sub>(80 MiB / 38.9% CPU)</sub> | **3594**<br><sub>(80 MiB / 38.9% CPU)</sub> | **6601**<br><sub>(172 MiB / 35% CPU)</sub> | **6601**<br><sub>(172 MiB / 35% CPU)</sub> |
 | HTTP/1 · TLS | HTTP/2 · plain | **8317**<br><sub>(96 MiB / 32.8% CPU)</sub> | **8317**<br><sub>(96 MiB / 32.8% CPU)</sub> | *Not possible (no H2 upstream)* | *Not possible (no H2 upstream)* | 🥇 **12353**<br><sub>(66 MiB / 28% CPU)</sub> | 🥇 **12353**<br><sub>(66 MiB / 28% CPU)</sub> | **5378**<br><sub>(80 MiB / 20.9% CPU)</sub> | **3107**<br><sub>(80 MiB / 20.9% CPU)</sub> | **10735**<br><sub>(122 MiB / 32.2% CPU)</sub> | **10735**<br><sub>(122 MiB / 32.2% CPU)</sub> |
 | HTTP/1 · TLS | HTTP/2 · TLS | **8457**<br><sub>(161 MiB / 33.8% CPU)</sub> | **8457**<br><sub>(161 MiB / 33.8% CPU)</sub> | *Not possible (no H2 upstream)* | *Not possible (no H2 upstream)* | **8558**<br><sub>(65 MiB / 29.3% CPU)</sub> | **8558**<br><sub>(65 MiB / 29.3% CPU)</sub> | **4938**<br><sub>(79 MiB / 39.8% CPU)</sub> | **5195**<br><sub>(79 MiB / 39.8% CPU)</sub> | 🥇 **9023**<br><sub>(120 MiB / 28.7% CPU)</sub> | 🥇 **9023**<br><sub>(120 MiB / 28.7% CPU)</sub> |
-| HTTP/1 · TLS | HTTP/3 · QUIC | **2677**<br><sub>(112 MiB / 44.9% CPU)</sub> | **2677**<br><sub>(112 MiB / 44.9% CPU)</sub> | *Not possible (no H3 upstream)* | *Not possible (no H3 upstream)* | *Not measured* | *Not measured* | 🥇 **4392**<br><sub>(81 MiB / 37.8% CPU)</sub> | 🥇 **2176**<br><sub>(81 MiB / 37.8% CPU)</sub> | **3589**<br><sub>(152 MiB / 31.7% CPU)</sub> | **3589**<br><sub>(152 MiB / 31.7% CPU)</sub> |
+| HTTP/1 · TLS | HTTP/3 · QUIC | **2677**<br><sub>(112 MiB / 44.9% CPU)</sub> | **2677**<br><sub>(112 MiB / 44.9% CPU)</sub> | *Not possible (no H3 upstream)* | *Not possible (no H3 upstream)* | *Not possible (no H3 upstream)* | *Not possible (no H3 upstream)* | 🥇 **4392**<br><sub>(81 MiB / 37.8% CPU)</sub> | 🥇 **2176**<br><sub>(81 MiB / 37.8% CPU)</sub> | **3589**<br><sub>(152 MiB / 31.7% CPU)</sub> | **3589**<br><sub>(152 MiB / 31.7% CPU)</sub> |
 | HTTP/2 · plain | HTTP/1 · plain | **12398**<br><sub>(88 MiB / 35.1% CPU)</sub> | **12398**<br><sub>(88 MiB / 35.1% CPU)</sub> | **10718**<br><sub>(58 MiB / 15.4% CPU)</sub> | **10718**<br><sub>(58 MiB / 15.4% CPU)</sub> | **7841**<br><sub>(54 MiB / 18% CPU)</sub> | **7841**<br><sub>(54 MiB / 18% CPU)</sub> | **3391**<br><sub>(74 MiB / 20.7% CPU)</sub> | **3391**<br><sub>(74 MiB / 20.7% CPU)</sub> | 🥇 **12934**<br><sub>(105 MiB / 37.8% CPU)</sub> | 🥇 **12934**<br><sub>(105 MiB / 37.8% CPU)</sub> |
 | HTTP/2 · plain | HTTP/1 · TLS | **13814**<br><sub>(94 MiB / 38.6% CPU)</sub> | **13814**<br><sub>(94 MiB / 38.6% CPU)</sub> | **12186**<br><sub>(85 MiB / 16% CPU)</sub> | **12186**<br><sub>(85 MiB / 16% CPU)</sub> | **6688**<br><sub>(56 MiB / 18.9% CPU)</sub> | **6688**<br><sub>(56 MiB / 18.9% CPU)</sub> | **5045**<br><sub>(77 MiB / 21.3% CPU)</sub> | **5045**<br><sub>(77 MiB / 21.3% CPU)</sub> | 🥇 **14337**<br><sub>(121 MiB / 42.3% CPU)</sub> | 🥇 **14337**<br><sub>(121 MiB / 42.3% CPU)</sub> |
 | HTTP/2 · plain | HTTP/2 · plain | 🥇 **30992**<br><sub>(73 MiB / 25.8% CPU)</sub> | 🥇 **30992**<br><sub>(73 MiB / 25.8% CPU)</sub> | *Not possible (no H2 upstream)* | *Not possible (no H2 upstream)* | **8615**<br><sub>(54 MiB / 17.5% CPU)</sub> | **8615**<br><sub>(54 MiB / 17.5% CPU)</sub> | **5442**<br><sub>(72 MiB / 20% CPU)</sub> | **5442**<br><sub>(72 MiB / 20% CPU)</sub> | **22898**<br><sub>(109 MiB / 37.5% CPU)</sub> | **22898**<br><sub>(109 MiB / 37.5% CPU)</sub> |
 | HTTP/2 · plain | HTTP/2 · TLS | 🥇 **24573**<br><sub>(77 MiB / 27.7% CPU)</sub> | 🥇 **24573**<br><sub>(77 MiB / 27.7% CPU)</sub> | *Not possible (no H2 upstream)* | *Not possible (no H2 upstream)* | **11876**<br><sub>(58 MiB / 19% CPU)</sub> | **11876**<br><sub>(58 MiB / 19% CPU)</sub> | **6393**<br><sub>(73 MiB / 20.2% CPU)</sub> | **6393**<br><sub>(73 MiB / 20.2% CPU)</sub> | **18700**<br><sub>(116 MiB / 34.6% CPU)</sub> | **18700**<br><sub>(116 MiB / 34.6% CPU)</sub> |
-| HTTP/2 · plain | HTTP/3 · QUIC | **4840**<br><sub>(97 MiB / 49.3% CPU)</sub> | **4840**<br><sub>(97 MiB / 49.3% CPU)</sub> | *Not possible (no H3 upstream)* | *Not possible (no H3 upstream)* | *Not measured* | *Not measured* | **3760**<br><sub>(74 MiB / 22.4% CPU)</sub> | **3760**<br><sub>(74 MiB / 22.4% CPU)</sub> | 🥇 **8092**<br><sub>(117 MiB / 33.9% CPU)</sub> | 🥇 **8092**<br><sub>(117 MiB / 33.9% CPU)</sub> |
+| HTTP/2 · plain | HTTP/3 · QUIC | **4840**<br><sub>(97 MiB / 49.3% CPU)</sub> | **4840**<br><sub>(97 MiB / 49.3% CPU)</sub> | *Not possible (no H3 upstream)* | *Not possible (no H3 upstream)* | *Not possible (no H3 upstream)* | *Not possible (no H3 upstream)* | **3760**<br><sub>(74 MiB / 22.4% CPU)</sub> | **3760**<br><sub>(74 MiB / 22.4% CPU)</sub> | 🥇 **8092**<br><sub>(117 MiB / 33.9% CPU)</sub> | 🥇 **8092**<br><sub>(117 MiB / 33.9% CPU)</sub> |
 | HTTP/2 · TLS | HTTP/1 · plain | 🥇 **13829**<br><sub>(94 MiB / 39.2% CPU)</sub> | 🥇 **13829**<br><sub>(94 MiB / 39.2% CPU)</sub> | **9070**<br><sub>(73 MiB / 14.5% CPU)</sub> | **9070**<br><sub>(73 MiB / 14.5% CPU)</sub> | **5237**<br><sub>(66 MiB / 16.1% CPU)</sub> | **5237**<br><sub>(66 MiB / 16.1% CPU)</sub> | **3516**<br><sub>(81 MiB / 20.4% CPU)</sub> | **3516**<br><sub>(81 MiB / 20.4% CPU)</sub> | **13572**<br><sub>(113 MiB / 37.3% CPU)</sub> | **13572**<br><sub>(113 MiB / 37.3% CPU)</sub> |
 | HTTP/2 · TLS | HTTP/1 · TLS | 🥇 **9182**<br><sub>(96 MiB / 37.3% CPU)</sub> | 🥇 **9182**<br><sub>(96 MiB / 37.3% CPU)</sub> | **6812**<br><sub>(90 MiB / 15.3% CPU)</sub> | **6812**<br><sub>(90 MiB / 15.3% CPU)</sub> | **4920**<br><sub>(66 MiB / 18.2% CPU)</sub> | **4920**<br><sub>(66 MiB / 18.2% CPU)</sub> | **2505**<br><sub>(83 MiB / 20.1% CPU)</sub> | **2505**<br><sub>(83 MiB / 20.1% CPU)</sub> | **9080**<br><sub>(124 MiB / 40.6% CPU)</sub> | **9080**<br><sub>(124 MiB / 40.6% CPU)</sub> |
 | HTTP/2 · TLS | HTTP/2 · plain | 🥇 **47325**<br><sub>(81 MiB / 29% CPU)</sub> | 🥇 **47325**<br><sub>(81 MiB / 29% CPU)</sub> | *Not possible (no H2 upstream)* | *Not possible (no H2 upstream)* | **5750**<br><sub>(67 MiB / 5.9% CPU)</sub> | **2851**<br><sub>(67 MiB / 5.9% CPU)</sub> | **4704**<br><sub>(79 MiB / 19% CPU)</sub> | **4704**<br><sub>(79 MiB / 19% CPU)</sub> | **22095**<br><sub>(115 MiB / 37.6% CPU)</sub> | **22095**<br><sub>(115 MiB / 37.6% CPU)</sub> |
 | HTTP/2 · TLS | HTTP/2 · TLS | 🥇 **29038**<br><sub>(83 MiB / 27.1% CPU)</sub> | 🥇 **29038**<br><sub>(83 MiB / 27.1% CPU)</sub> | *Not possible (no H2 upstream)* | *Not possible (no H2 upstream)* | **6022**<br><sub>(67 MiB / 18.3% CPU)</sub> | **6022**<br><sub>(67 MiB / 18.3% CPU)</sub> | **4494**<br><sub>(79 MiB / 18.6% CPU)</sub> | **4494**<br><sub>(79 MiB / 18.6% CPU)</sub> | **16458**<br><sub>(118 MiB / 35% CPU)</sub> | **16458**<br><sub>(118 MiB / 35% CPU)</sub> |
-| HTTP/2 · TLS | HTTP/3 · QUIC | **4226**<br><sub>(108 MiB / 36% CPU)</sub> | **4226**<br><sub>(108 MiB / 36% CPU)</sub> | *Not possible (no H3 upstream)* | *Not possible (no H3 upstream)* | *Not measured* | *Not measured* | **1772**<br><sub>(81 MiB / 21.6% CPU)</sub> | **1772**<br><sub>(81 MiB / 21.6% CPU)</sub> | 🥇 **4805**<br><sub>(125 MiB / 33.7% CPU)</sub> | 🥇 **4805**<br><sub>(125 MiB / 33.7% CPU)</sub> |
+| HTTP/2 · TLS | HTTP/3 · QUIC | **4226**<br><sub>(108 MiB / 36% CPU)</sub> | **4226**<br><sub>(108 MiB / 36% CPU)</sub> | *Not possible (no H3 upstream)* | *Not possible (no H3 upstream)* | *Not possible (no H3 upstream)* | *Not possible (no H3 upstream)* | **1772**<br><sub>(81 MiB / 21.6% CPU)</sub> | **1772**<br><sub>(81 MiB / 21.6% CPU)</sub> | 🥇 **4805**<br><sub>(125 MiB / 33.7% CPU)</sub> | 🥇 **4805**<br><sub>(125 MiB / 33.7% CPU)</sub> |
 | HTTP/3 · QUIC | HTTP/1 · plain | **5834**<br><sub>(101 MiB / 39.5% CPU)</sub> | **5834**<br><sub>(101 MiB / 39.5% CPU)</sub> | **0**<br><sub>(63 MiB / 11.2% CPU)</sub> | **7464**<br><sub>(63 MiB / 11.2% CPU)</sub> | 🥇 **10727**<br><sub>(66 MiB / 22% CPU)</sub> | 🥇 **10727**<br><sub>(66 MiB / 22% CPU)</sub> | **1595**<br><sub>(85 MiB / 26.4% CPU)</sub> | **1595**<br><sub>(85 MiB / 26.4% CPU)</sub> | **5558**<br><sub>(187 MiB / 35% CPU)</sub> | **5558**<br><sub>(187 MiB / 35% CPU)</sub> |
 | HTTP/3 · QUIC | HTTP/1 · TLS | **3723**<br><sub>(119 MiB / 38.2% CPU)</sub> | **3723**<br><sub>(119 MiB / 38.2% CPU)</sub> | **0**<br><sub>(66 MiB / 11.1% CPU)</sub> | **4316**<br><sub>(66 MiB / 11.1% CPU)</sub> | 🥇 **5430**<br><sub>(69 MiB / 21.8% CPU)</sub> | 🥇 **5430**<br><sub>(69 MiB / 21.8% CPU)</sub> | *Not measured* | *Not measured* | **4786**<br><sub>(197 MiB / 35.5% CPU)</sub> | **4786**<br><sub>(197 MiB / 35.5% CPU)</sub> |
 | HTTP/3 · QUIC | HTTP/2 · plain | **4576**<br><sub>(97 MiB / 41.3% CPU)</sub> | **4576**<br><sub>(97 MiB / 41.3% CPU)</sub> | *Not possible (no H2 upstream)* | *Not possible (no H2 upstream)* | 🥇 **5954**<br><sub>(66 MiB / 14.4% CPU)</sub> | 🥇 **5954**<br><sub>(66 MiB / 14.4% CPU)</sub> | *Not measured* | *Not measured* | **5642**<br><sub>(176 MiB / 34.2% CPU)</sub> | **5642**<br><sub>(176 MiB / 34.2% CPU)</sub> |
 | HTTP/3 · QUIC | HTTP/2 · TLS | **5532**<br><sub>(106 MiB / 41.4% CPU)</sub> | **5532**<br><sub>(106 MiB / 41.4% CPU)</sub> | *Not possible (no H2 upstream)* | *Not possible (no H2 upstream)* | **6633**<br><sub>(68 MiB / 21.5% CPU)</sub> | **6633**<br><sub>(68 MiB / 21.5% CPU)</sub> | *Not measured* | *Not measured* | 🥇 **7854**<br><sub>(167 MiB / 32.5% CPU)</sub> | 🥇 **7854**<br><sub>(167 MiB / 32.5% CPU)</sub> |
-| HTTP/3 · QUIC | HTTP/3 · QUIC | **3460**<br><sub>(96 MiB / 35% CPU)</sub> | **3460**<br><sub>(96 MiB / 35% CPU)</sub> | *Not possible (no H3 upstream)* | *Not possible (no H3 upstream)* | *Not measured* | *Not measured* | *Not measured* | *Not measured* | 🥇 **4659**<br><sub>(188 MiB / 34.4% CPU)</sub> | 🥇 **4659**<br><sub>(188 MiB / 34.4% CPU)</sub> |
+| HTTP/3 · QUIC | HTTP/3 · QUIC | **3460**<br><sub>(96 MiB / 35% CPU)</sub> | **3460**<br><sub>(96 MiB / 35% CPU)</sub> | *Not possible (no H3 upstream)* | *Not possible (no H3 upstream)* | *Not possible (no H3 upstream)* | *Not possible (no H3 upstream)* | *Not measured* | *Not measured* | 🥇 **4659**<br><sub>(188 MiB / 34.4% CPU)</sub> | 🥇 **4659**<br><sub>(188 MiB / 34.4% CPU)</sub> |
 
 ### MITM (TWP only)
 
@@ -629,9 +629,9 @@ Unary Echo **RPC/s** @ c=64 over H2 TLS→H2 TLS for Titanium, YARP, nginx (`grp
 
 | OS | Titanium | YARP | nginx | HAProxy | Envoy |
 |---|---:|---:|---:|---:|---:|
-| Windows | **53,762**<br><sub>(88 MiB / 23.6% CPU)</sub> | **30,754**<br><sub>(123 MiB / 46.9% CPU)</sub> | *Not measured* | *Not possible* | *Not possible* |
-| Linux | **42,675**<br><sub>(120 MiB / 30.3% CPU)</sub> | **24,232**<br><sub>(159 MiB / 41.6% CPU)</sub> | *Not measured* | **8,683**<br><sub>(84 MiB / 24.6% CPU)</sub> | **16,110**<br><sub>(128 MiB / 20.6% CPU)</sub> |
-| macOS | **14,924**<br><sub>(94 MiB / 20.1% CPU)</sub> | **8,581**<br><sub>(128 MiB / 28.4% CPU)</sub> | *Not measured* | *Not measured* | *Not measured* |
+| Windows | **53,762**<br><sub>(88 MiB / 23.6% CPU)</sub> | **30,754**<br><sub>(123 MiB / 46.9% CPU)</sub> | **0**<br><sub>(153 MiB / 24.8% CPU)</sub> | *Not possible* | *Not possible* |
+| Linux | **42,675**<br><sub>(120 MiB / 30.3% CPU)</sub> | **24,232**<br><sub>(159 MiB / 41.6% CPU)</sub> | **0**<br><sub>(120 MiB / 24.9% CPU)</sub> | **8,683**<br><sub>(84 MiB / 24.6% CPU)</sub> | **16,110**<br><sub>(128 MiB / 20.6% CPU)</sub> |
+| macOS | **14,924**<br><sub>(94 MiB / 20.1% CPU)</sub> | **8,581**<br><sub>(128 MiB / 28.4% CPU)</sub> | **0**<br><sub>(97 MiB / 2.5% CPU)</sub> | **0**<br><sub>(68 MiB / 5.1% CPU)</sub> | **0**<br><sub>(84 MiB / 19.0% CPU)</sub> |
 
 ## Other measurements
 
